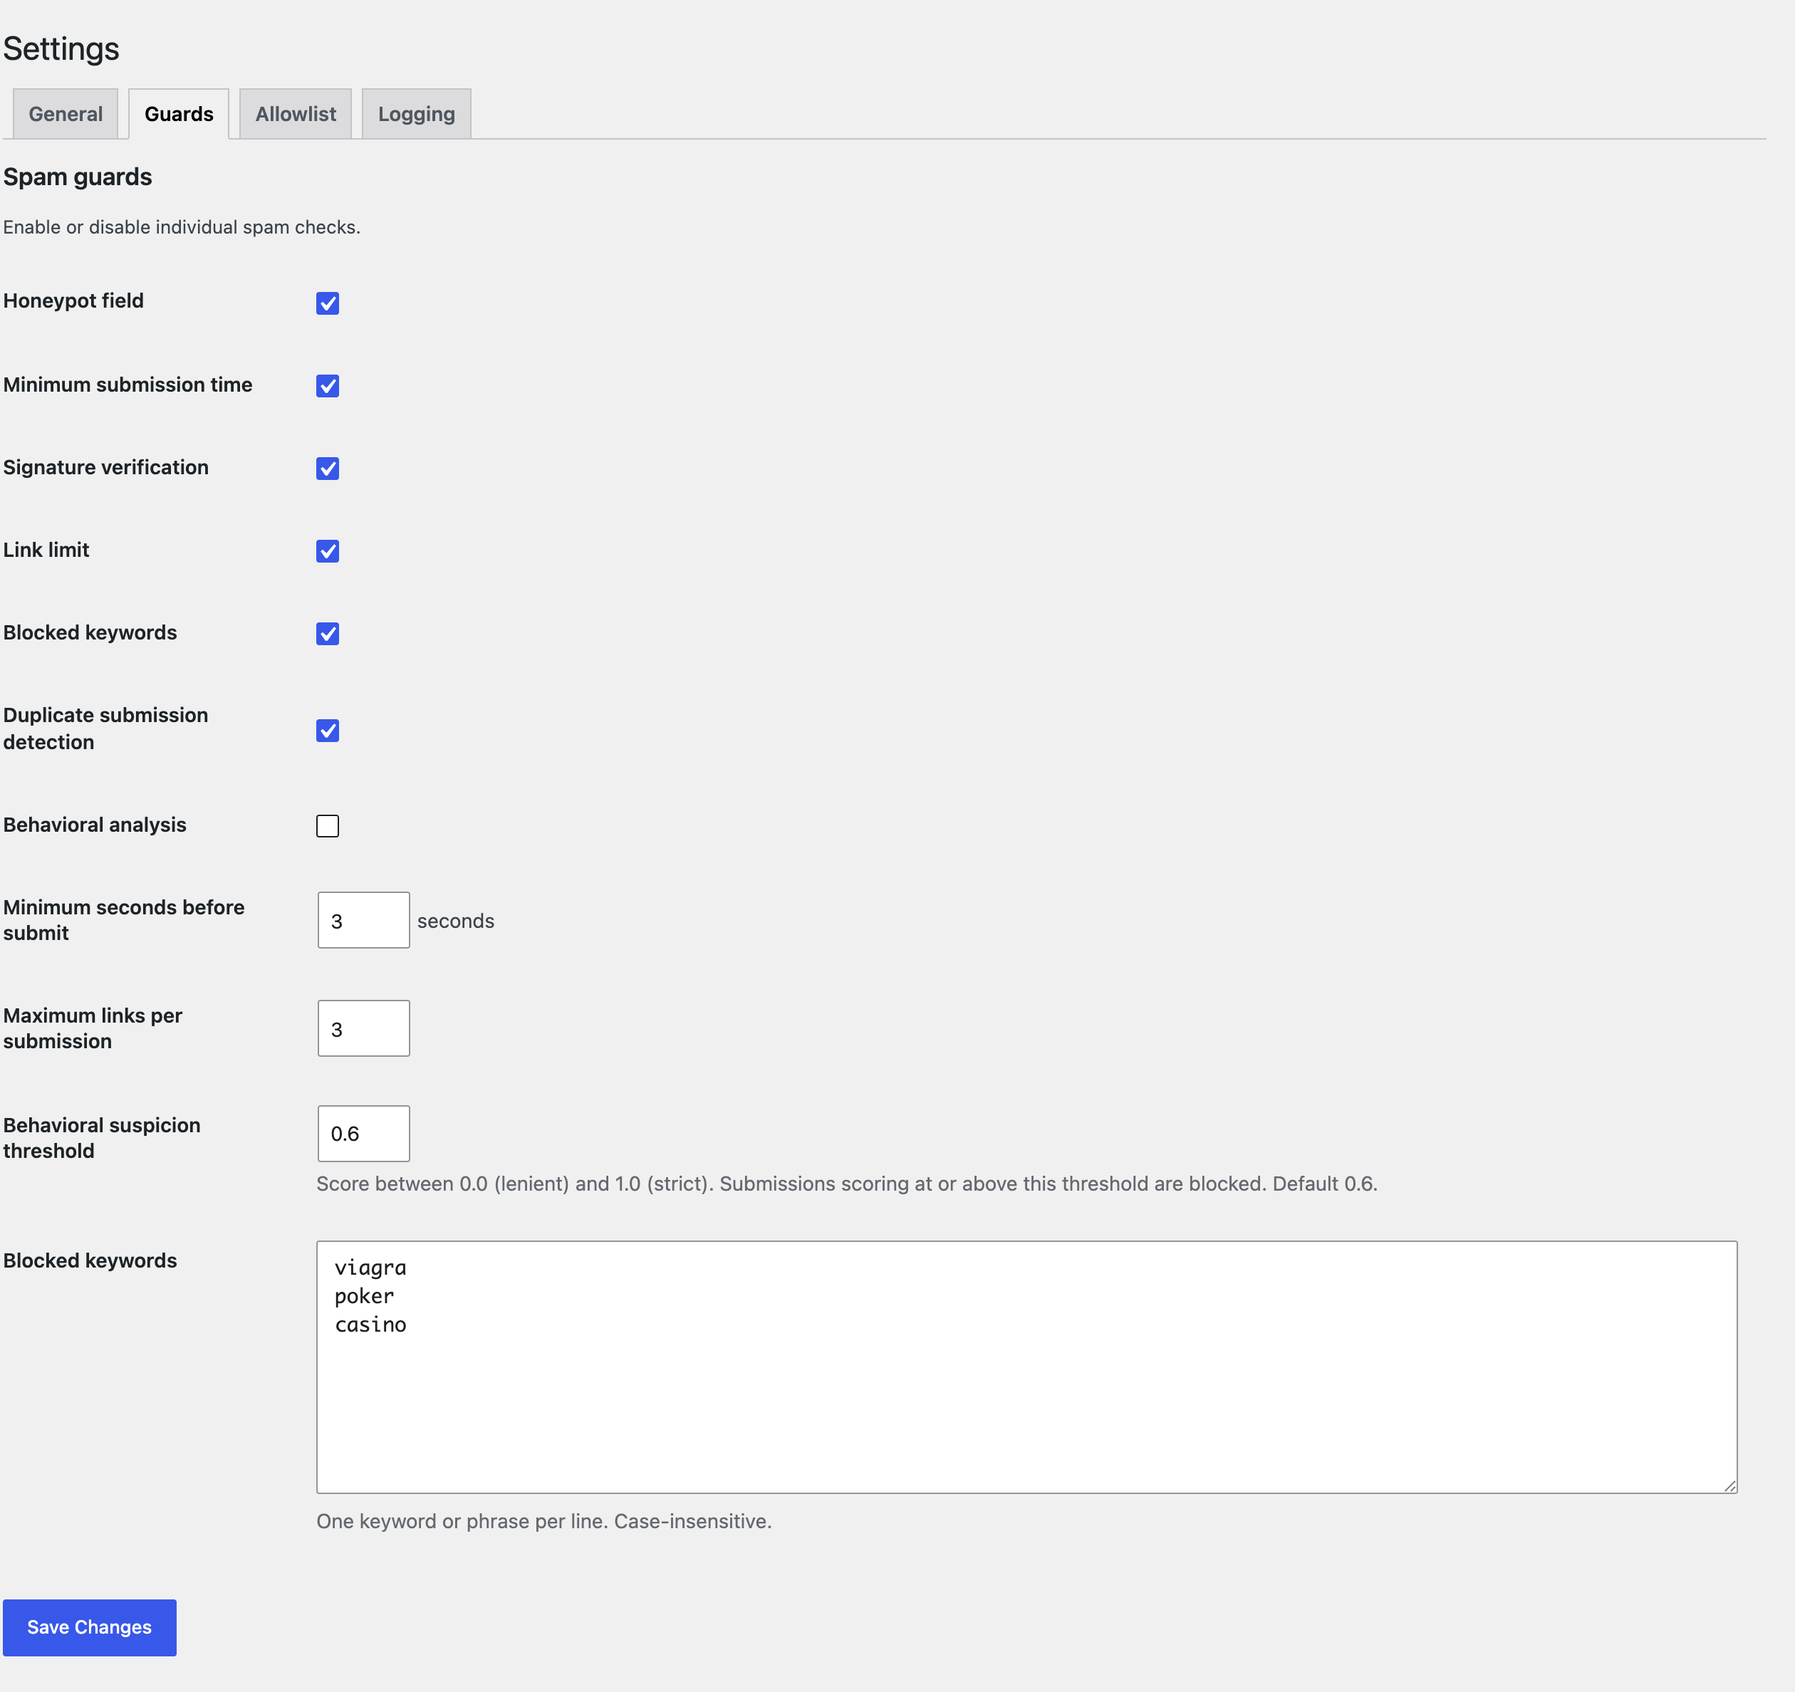
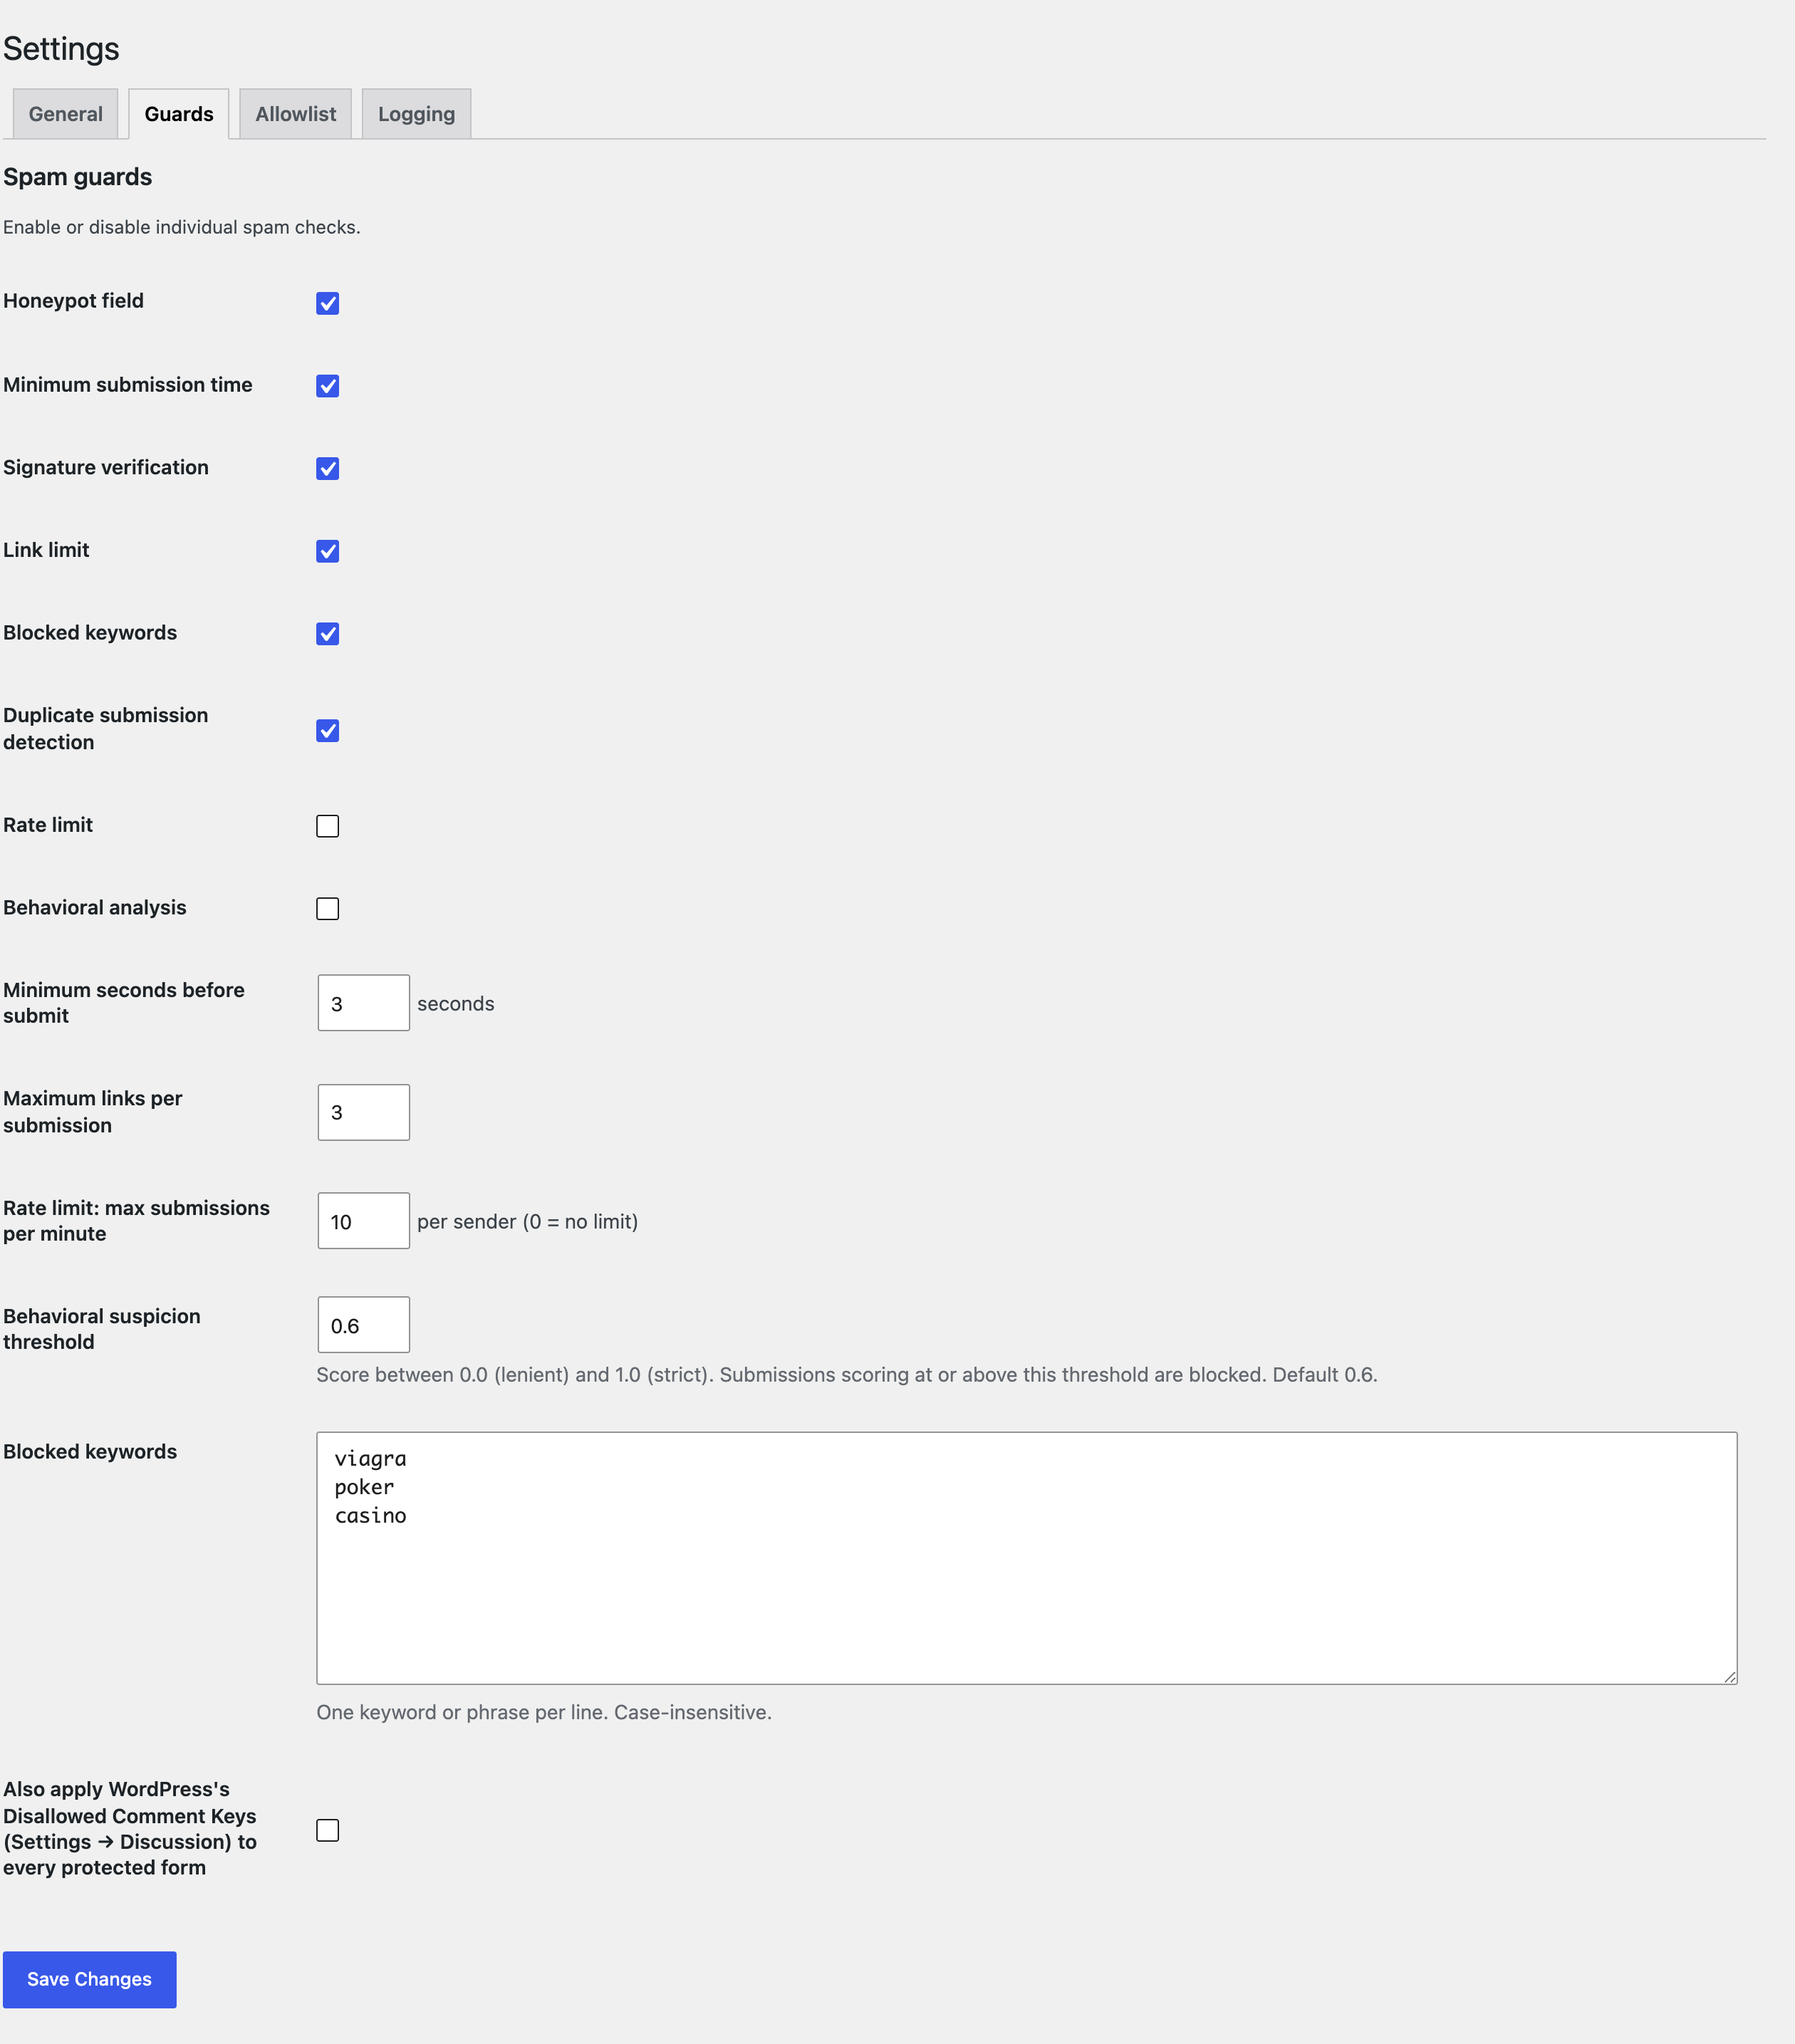
1.2.0: rate-limit guard and WordPress Disallowed Comment Keys
Integrates the two features from the 1.2.0-dev branch and prepares the
release. Both are off by default; nothing changes for existing sites unless
they are enabled.

- Rate-limit guard (weight 85): throttles repeated submissions from the same
  sender within a rolling window, keyed on the logged-in user id when present
  and the connection IP otherwise, so it suits authenticated flows as well as
  public forms. Off by default because IP-based limiting can catch shared
  addresses; a maximum of 0 disables it without disabling the guard.
- Keyword_Block can now also run submissions through core's
  wp_check_comment_disallowed_list(), extending the Disallowed Comment Keys
  list from Settings -> Discussion to reviews, Jetpack forms and API
  integrations, which core never applies it to. Same core function Jetpack
  Forms uses, applied more broadly and without the Akismet pairing.

Release work in this commit: rebased onto main, corrected the text domain on
the strings the branch added (it predated the rename), documented both
features in readme.txt and README.md, re-captured the Guards-tab screenshot
now that the tab has three new controls, bumped every version field and
regenerated the translation template.

Also folds in milestone ride-alongs: screenshot 2 now shows a populated
allowlist demonstrating all four supported formats (#11).

Verified: 78 tests, PHPCS clean, version metadata consistent, Plugin Check
clean on the built package apart from the expected custom-table
[…]

diff --git a/onsite-spam-guard.php b/onsite-spam-guard.php
@@ -2,7 +2,7 @@
 /**
  * Plugin Name: Onsite Spam Guard
  * Description: Config-driven spam prevention for Comments, WooCommerce Reviews, and Jetpack Contact Form blocks — no external services required.
- * Version:     1.1.3
+ * Version:     1.2.0
  * Requires at least: 6.2
  * Requires PHP: 8.2
  * Author:      Jerome Wincek
@@ -19,7 +19,7 @@ if ( ! defined( 'ABSPATH' ) ) {
 }
 
 // Plugin constants.
-define( 'SIMPLE_SPAM_SHIELD_VERSION', '1.1.3' );
+define( 'SIMPLE_SPAM_SHIELD_VERSION', '1.2.0' );
 define( 'SIMPLE_SPAM_SHIELD_FILE', __FILE__ );
 define( 'SIMPLE_SPAM_SHIELD_DIR', plugin_dir_path( __FILE__ ) );
 define( 'SIMPLE_SPAM_SHIELD_URL', plugin_dir_url( __FILE__ ) );

diff --git a/includes/core/class-admin.php b/includes/core/class-admin.php
@@ -208,7 +208,7 @@ final class Admin {
 			'simple_spam_shield_guards'
 		);
 
-		self::add_toggle( 'simple_spam_shield_use_wp_disallowed_keys', __( 'Also apply WordPress\'s Disallowed Comment Keys (Settings → Discussion) to every protected form', 'simple-spam-shield' ), $guards_page, 'simple_spam_shield_guards', false );
+		self::add_toggle( 'simple_spam_shield_use_wp_disallowed_keys', __( 'Also apply WordPress\'s Disallowed Comment Keys (Settings → Discussion) to every protected form', 'onsite-spam-guard' ), $guards_page, 'simple_spam_shield_guards', false );
 
 		// ---- Allowlist tab ----
 		$allowlist_page = $tabs['allowlist']['page'];

diff --git a/includes/guards/class-rate-limit.php b/includes/guards/class-rate-limit.php
@@ -39,7 +39,7 @@ final class Rate_Limit extends Abstract_Guard {
 
 		if ( $count >= $max ) {
 			return $this->fail(
-				__( 'Too many submissions — please wait a moment and try again.', 'simple-spam-shield' )
+				__( 'Too many submissions — please wait a moment and try again.', 'onsite-spam-guard' )
 			);
 		}
 

diff --git a/README.md b/README.md
@@ -42,6 +42,7 @@ uninstall.php            → Clean deletion of all plugin data
 | **Honeypot** | 100 | On | Hidden field that bots fill in but humans never see |
 | **Duplicate detection** | 95 | On | Rejects identical submissions within a 60-second window using transient-based hashing |
 | **Time gate** | 90 | On | Rejects submissions completed faster than a human could type (configurable, default 3s), using a server-signed issue time |
+| **Rate limit** | 85 | Off | Throttles repeated submissions from the same sender within a rolling window; keyed on the logged-in user ID when present, the connection IP otherwise |
 | **Signature** | 80 | On | Requires a valid server-signed token (HMAC) proving the form was served by this site; does not expire, so it is cache-safe |
 | **Link limit** | 70 | On | Flags submissions containing too many URLs (configurable, default 3) |
 | **Keyword block** | 60 | On | Rejects submissions matching blocked keywords or phrases |
@@ -72,6 +73,18 @@ This design gives full guard coverage on Jetpack forms while Jetpack stays in co
 ### Allowlist
 
 Submissions from allowlisted IPs or emails bypass all guards entirely. The allowlist supports exact IPs, CIDR ranges (e.g. `10.0.0.0/8`), exact email addresses, and email domain patterns (e.g. `@trusted.org`). IP detection uses the direct connection IP (`REMOTE_ADDR`) by default; the spoofable `X-Forwarded-For` header is honored only when the **Trust proxy headers** option is enabled (for sites behind a trusted reverse proxy), so a visitor cannot forge a header to spoof an allowlisted IP.
+
+### Sharing WordPress's blocklist
+
+The Keyword block guard checks its own list of words and phrases. It can optionally also run each
+submission through **`wp_check_comment_disallowed_list()`** — WordPress's own *Disallowed Comment
+Keys* from Settings → Discussion — via the *Also apply WordPress's Disallowed Comment Keys* option
+on the Guards tab (off by default).
+
+Core only applies that list to comments. Running it through the guard pipeline extends the same
+single, already-maintained blocklist to WooCommerce reviews, Jetpack contact forms, and any form
+integrated through the public API. Jetpack Forms uses the same core function for its own
+submissions; this applies it more broadly, and without the Akismet dependency Jetpack pairs it with.
 
 ### Logging
 

diff --git a/CHANGELOG.md b/CHANGELOG.md
@@ -10,6 +10,8 @@ The user-facing changelog shipped to WordPress.org lives in the
 
 ## [Unreleased]
 
+## [1.2.0] - 2026-08-21
+
 ### Added
 - Rate-limit guard that throttles repeated submissions from the same sender
   (logged-in user, or IP when anonymous) within a short window. Off by default;
@@ -125,7 +127,8 @@ Initial release.
   their own forms: `simple_spam_shield_check()`,
   `simple_spam_shield_protect_selector()`, and `simple_spam_shield_field_markup()`.
 
-[Unreleased]: https://github.com/jwincek/onsite-spam-guard/compare/v1.1.3...HEAD
+[Unreleased]: https://github.com/jwincek/onsite-spam-guard/compare/v1.2.0...HEAD
+[1.2.0]: https://github.com/jwincek/onsite-spam-guard/compare/v1.1.3...v1.2.0
 [1.1.3]: https://github.com/jwincek/onsite-spam-guard/compare/v1.1.2...v1.1.3
 [1.1.2]: https://github.com/jwincek/onsite-spam-guard/compare/v1.1.1...v1.1.2
 [1.1.1]: https://github.com/jwincek/onsite-spam-guard/compare/v1.1.0...v1.1.1
